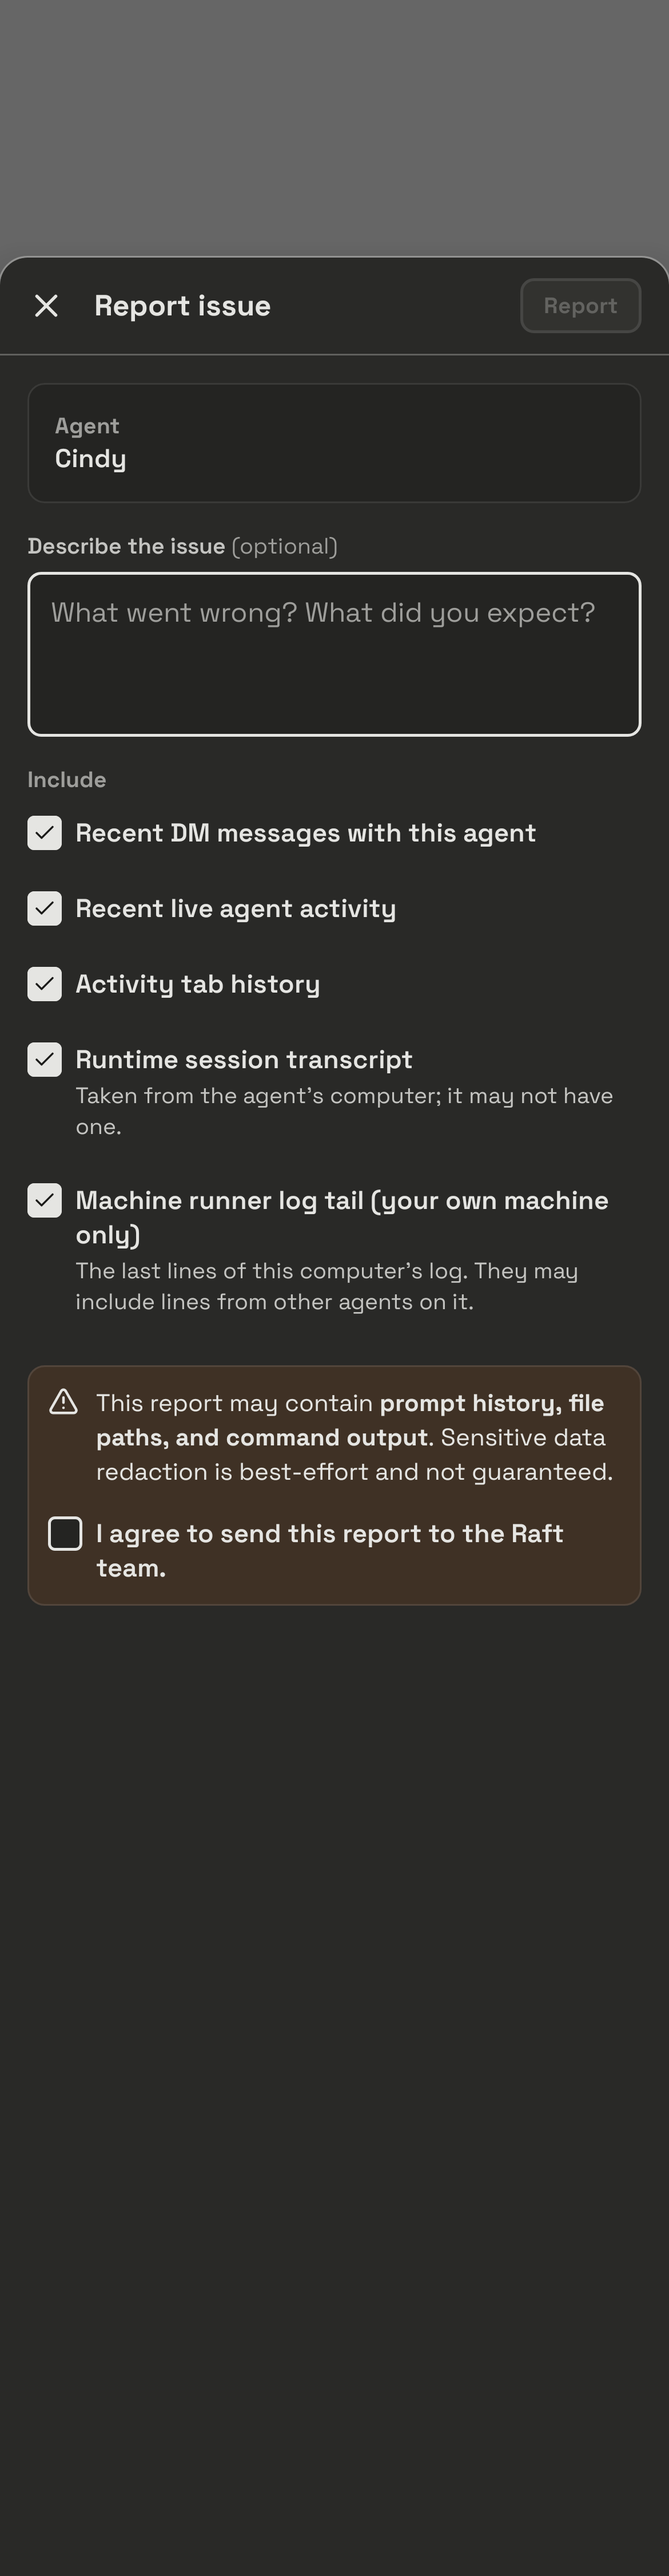
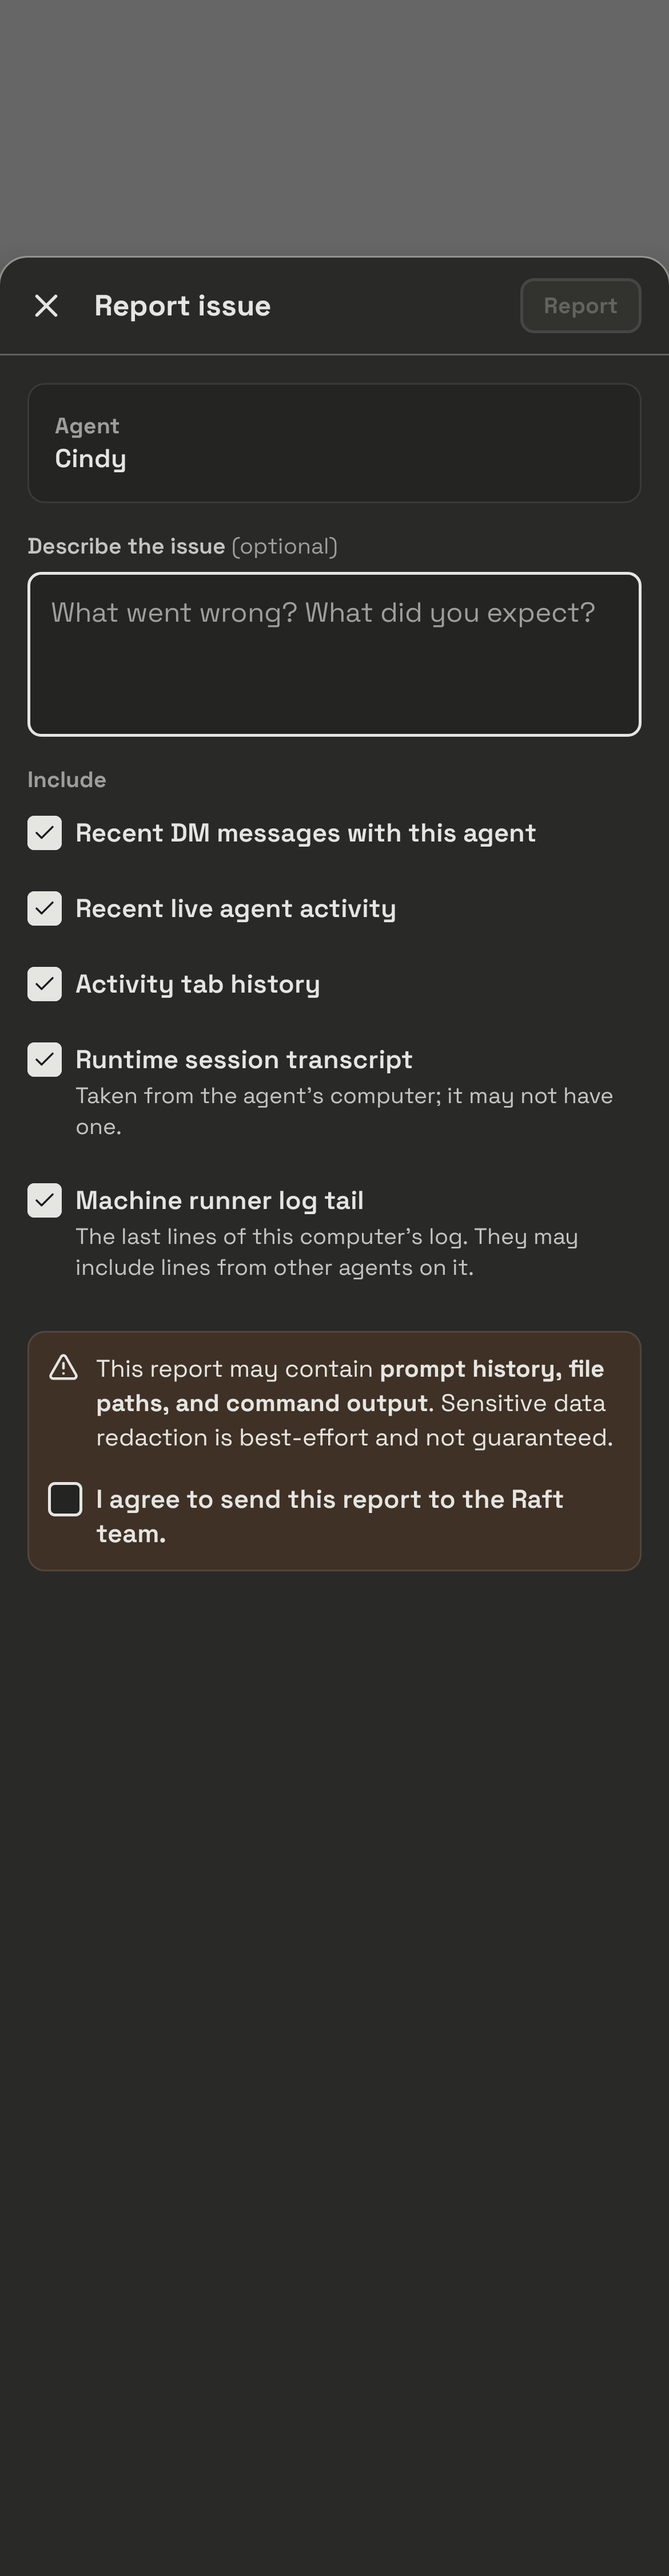
fix(agents): owners and admins can attach a machine's runner log tail to a report (web #15306) (#5096)
Stamp-Batch: c68bbf67c61d594df79c7975ef2d5ff6
Original-Head: 7f172c371c3f14ee6d96e02d4b03d5de9b161947

Changed region(s): [[0.1231, 0.4667, 0.8923, 0.6222], [0.0615, 0.5289, 0.1231, 0.6222]]

diff --git a/compose/shared/src/commonMain/kotlin/build/raft/app/members/MembersAgentIssueReportDialogs.kt b/compose/shared/src/commonMain/kotlin/build/raft/app/members/MembersAgentIssueReportDialogs.kt
@@ -58,24 +58,44 @@ internal data class MembersAgentIssueReportSelection(
 )
 
 /**
- * The machine-log-tail box (web `includeMachineLogTail`): until the reporter touches it, it
- * follows ownership ([canIncludeMachineLog]), so a machine list that loads after the panel opened
- * still ticks it; once touched, the reporter's [choice] wins.
+ * The machine-log-tail box (web `includeMachineLogTail`, slock #15306). It is offered when
+ * [canIncludeMachineLog] (whoever may edit the Computer: the person who attached it, or an owner
+ * or admin, [membersAgentIssueCanIncludeMachineLog]). Until the reporter touches it, it follows
+ * [ownAttachedMachine]: ticked only on the reporter's own attached machine (an owner or admin on
+ * someone else's machine sees it unticked, since the tail may hold other people's agents' lines),
+ * so a machine list that loads after the panel opened still ticks it. Once touched, the
+ * reporter's [choice] wins.
  */
-internal fun membersAgentIssueMachineLogTailChecked(choice: Boolean?, canIncludeMachineLog: Boolean): Boolean =
-    canIncludeMachineLog && (choice ?: true)
+internal fun membersAgentIssueMachineLogTailChecked(
+    choice: Boolean?,
+    canIncludeMachineLog: Boolean,
+    ownAttachedMachine: Boolean = canIncludeMachineLog,
+): Boolean = canIncludeMachineLog && (choice ?: ownAttachedMachine)
+
+/**
+ * Web ReportIssueDialog `canIncludeMachineLog` (slock #15306, server #15305 `canManageComputer`
+ * edit): the agent has a machine, and the reporter attached it or holds `editMachines` (server
+ * owner or admin). The server checks the same.
+ */
+internal fun membersAgentIssueCanIncludeMachineLog(
+    hasMachine: Boolean,
+    attachedByCurrentUser: Boolean,
+    serverRole: String?,
+): Boolean = hasMachine && (attachedByCurrentUser || serverRole?.trim() == "owner" || serverRole?.trim() == "admin")
 
 /**
  * The agent "Report Issue" panel, web parity with packages/web/src/components/agent/
  * ReportIssueDialog.tsx: agent card, optional description, the "Include" section (all on by
- * default; runtime transcript needs a machine; the runner log tail only for the reporter's own
- * machine and only with the transcript), and the warning box holding the consent checkbox.
+ * default; runtime transcript needs a machine; the runner log tail for whoever may edit the
+ * machine, ticked only on the reporter's own, and only with the transcript), and the warning box holding the consent checkbox.
  */
 @Composable
 internal fun MembersAgentIssueReportDialog(
     agentName: String,
     runtimeTranscriptAvailable: Boolean,
     canIncludeMachineLog: Boolean,
+    /** The reporter attached the agent's machine: the log-tail box starts ticked only then. */
+    ownAttachedMachine: Boolean = canIncludeMachineLog,
     busy: Boolean,
     errorMessage: String?,
     errorTraceId: String? = null,
@@ -99,7 +119,7 @@ internal fun MembersAgentIssueReportDialog(
         mutableStateOf(runtimeTranscriptAvailable)
     }
     var machineLogTailChoice by remember(agentName) { mutableStateOf<Boolean?>(null) }
-    val includeMachineLogTail = membersAgentIssueMachineLogTailChecked(machineLogTailChoice, canIncludeMachineLog)
+    val includeMachineLogTail = membersAgentIssueMachineLogTailChecked(machineLogTailChoice, canIncludeMachineLog, ownAttachedMachine)
     // The one commit: the footer's Submit on a wide window, the phone sheet's head button.
     val commitLabel =
         if (busy) {

diff --git a/compose/shared/src/commonMain/kotlin/build/raft/app/members/MembersDetailContent.kt b/compose/shared/src/commonMain/kotlin/build/raft/app/members/MembersDetailContent.kt
@@ -1527,14 +1527,21 @@ internal fun MembersDetailContent(
         }
         if (reportIssueDialogOpen && member.kind == MemberKind.Agent) {
             val reportState = effectiveDiagnosticActionState?.takeIf { it.actionKey == "report" }
-            // Web `canIncludeMachineLog`: the agent's machine was attached by the reporter.
+            // Web `canIncludeMachineLog` (slock #15306): the reporter attached the agent's
+            // machine, or is a server owner/admin; ticked by default only on their own.
+            val reportMachine = machineStatusRow(detail?.summary?.machineId) as? MembersMachineStatusRow.Machine
+            val ownAttachedMachine = reportMachine?.attachedByCurrentUser == true
             val canIncludeMachineLog =
-                (machineStatusRow(detail?.summary?.machineId) as? MembersMachineStatusRow.Machine)
-                    ?.attachedByCurrentUser == true
+                membersAgentIssueCanIncludeMachineLog(
+                    hasMachine = reportMachine != null,
+                    attachedByCurrentUser = ownAttachedMachine,
+                    serverRole = remoteControls?.serverRole,
+                )
             MembersAgentIssueReportDialog(
                 agentName = member.displayName,
                 runtimeTranscriptAvailable = detail?.summary?.machineId?.isNotBlank() == true,
                 canIncludeMachineLog = canIncludeMachineLog,
+                ownAttachedMachine = ownAttachedMachine,
                 busy = reportState?.inProgress == true,
                 errorMessage =
                     reportState?.error?.let { error ->

diff --git a/compose/shared/src/commonTest/kotlin/build/raft/app/MembersAgentIssueReportReceiptTest.kt b/compose/shared/src/commonTest/kotlin/build/raft/app/MembersAgentIssueReportReceiptTest.kt
@@ -47,4 +47,18 @@ class MembersAgentIssueReportReceiptTest {
         assertEquals(false, membersAgentIssueMachineLogTailChecked(choice = false, canIncludeMachineLog = true))
         assertEquals(false, membersAgentIssueMachineLogTailChecked(choice = true, canIncludeMachineLog = false))
     }
+
+    @Test
+    fun ownerOrAdminIsOfferedAnotherPersonsMachineLogUnticked() {
+        // slock #15306: offered to whoever may edit the Computer, ticked only on one's own.
+        assertEquals(true, membersAgentIssueCanIncludeMachineLog(hasMachine = true, attachedByCurrentUser = true, serverRole = "member"))
+        assertEquals(true, membersAgentIssueCanIncludeMachineLog(hasMachine = true, attachedByCurrentUser = false, serverRole = "admin"))
+        assertEquals(true, membersAgentIssueCanIncludeMachineLog(hasMachine = true, attachedByCurrentUser = false, serverRole = "owner"))
+        assertEquals(false, membersAgentIssueCanIncludeMachineLog(hasMachine = true, attachedByCurrentUser = false, serverRole = "member"))
+        assertEquals(false, membersAgentIssueCanIncludeMachineLog(hasMachine = false, attachedByCurrentUser = false, serverRole = "owner"))
+
+        assertEquals(false, membersAgentIssueMachineLogTailChecked(choice = null, canIncludeMachineLog = true, ownAttachedMachine = false))
+        assertEquals(true, membersAgentIssueMachineLogTailChecked(choice = true, canIncludeMachineLog = true, ownAttachedMachine = false))
+        assertEquals(true, membersAgentIssueMachineLogTailChecked(choice = null, canIncludeMachineLog = true, ownAttachedMachine = true))
+    }
 }

diff --git a/change-logs/1.27.0/changesets/report-issue-machine-log-admins.md b/change-logs/1.27.0/changesets/report-issue-machine-log-admins.md
@@ -1,0 +1,22 @@
+---
+type: changed
+area: agents
+platforms:
+  - android
+  - ios
+  - desktop
+pull_request: 0
+rollout: full
+---
+
+## zh-CN
+
+报告 Agent 问题时，服务器所有者和管理员也可以附上这台电脑的运行日志尾部（和网页一样）；只有在你自己连接的电脑上默认勾选。
+
+## en
+
+When reporting an agent's issue, server owners and admins can also attach the machine's runner log tail, as on the web; it starts ticked only on a computer you connected yourself.
+
+## ja
+
+エージェントの問題を報告するとき、サーバーのオーナーと管理者もマシンのランナーログ末尾を添付できるようになりました（Web と同じ）。最初からチェックが入るのは自分で接続したコンピューターだけです。
